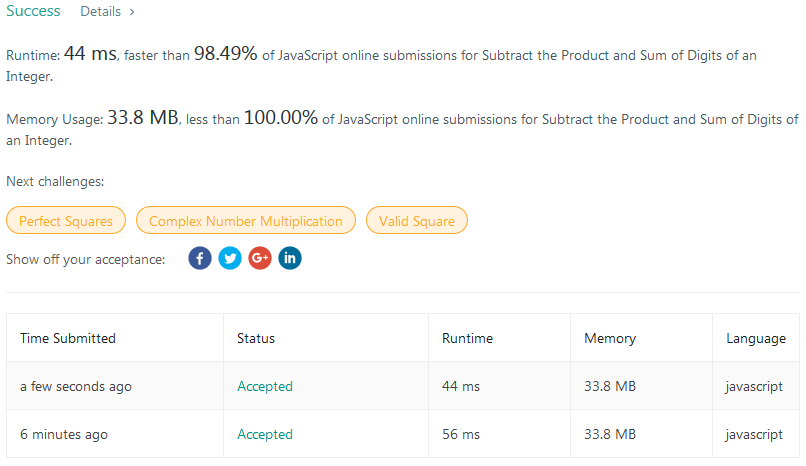
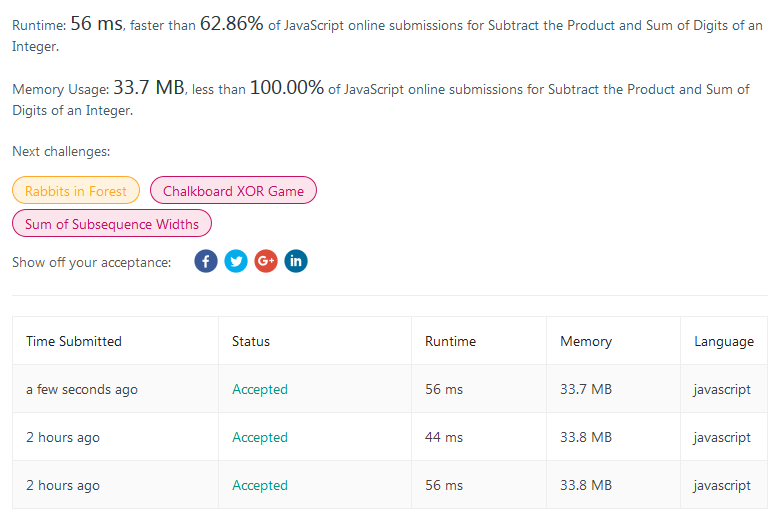
1281 - Solutions Review

diff --git a/Easy/1281 - Subtract the Product and Sum of Digits of an Integer/DP Solution 1.js b/Easy/1281 - Subtract the Product and Sum of Digits of an Integer/DP Solution 1.js
@@ -1,0 +1,17 @@
+/**
+ * @param {number} n
+ * @return {number}
+ */
+
+var subtractProductAndSum = function(n) {
+    
+    let productOfDigits = 1;
+    let sumOfDigits = 0;
+    while(n >  0){
+        productOfDigits *= n % 10; // 4 * 3 * 2
+        sumOfDigits += n % 10;     // 4  + 3 + 2
+        n = Math.floor(n / 10);    // 23 --> 2 --> 0
+        
+    }
+    return (productOfDigits - sumOfDigits);
+};
